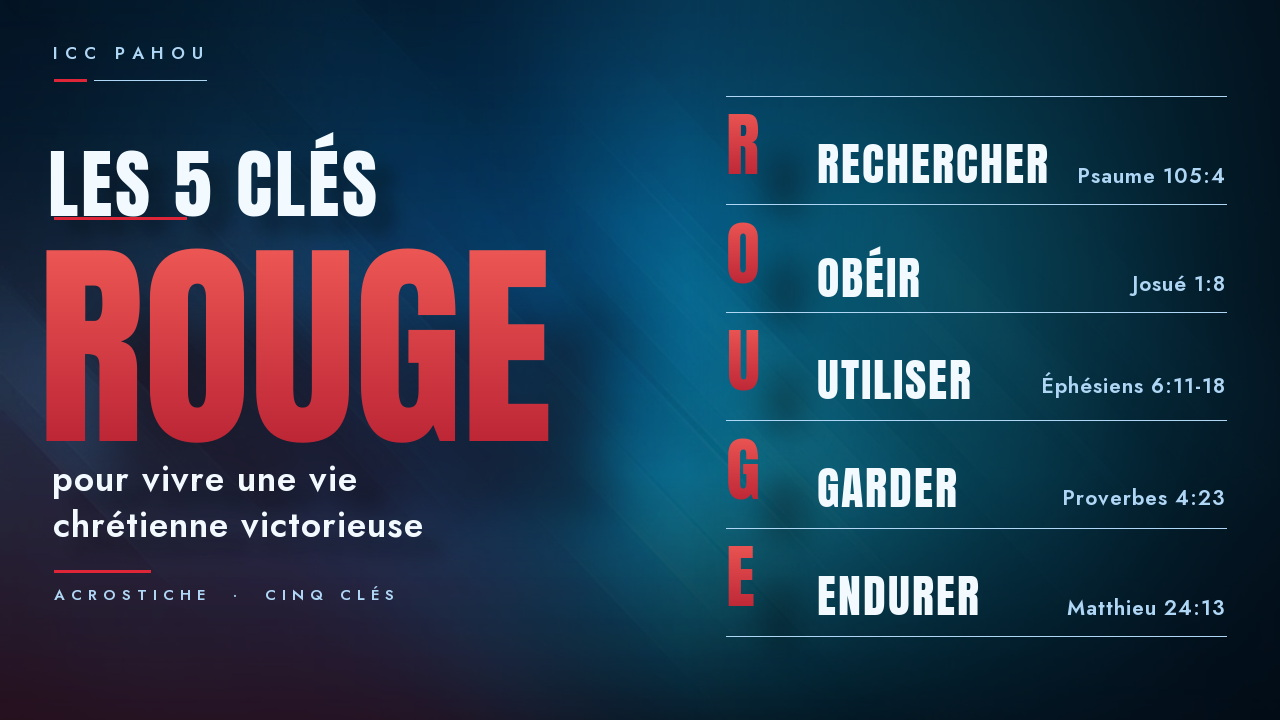
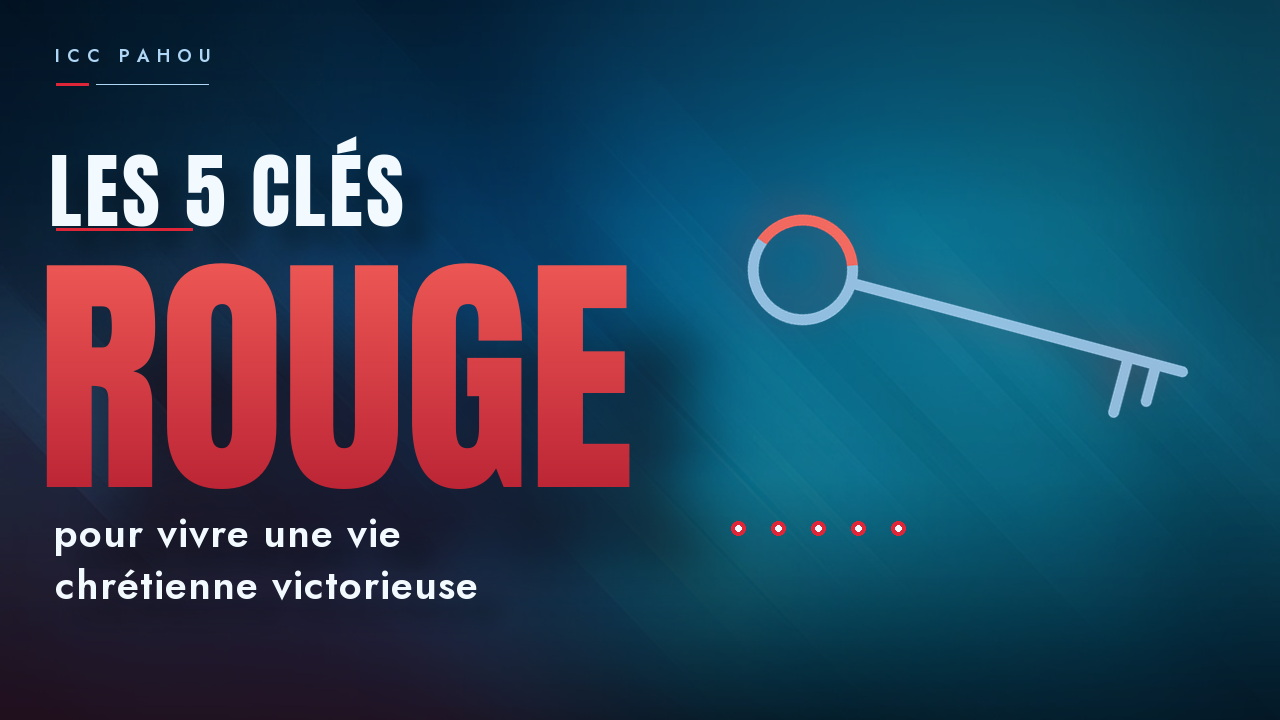
fix(miniature): theme « Les 5 cles : ROUGE » sans les points
- la miniature ne porte que l'intitule du theme : accroche, mot-acrostiche, phrase
- motif de cle filaire + 5 pastilles rouges pour dire le sujet sans liste
- les 5 verbes et leurs references restent sur le visuel 1280x720

diff --git a/scripts/render_rouge_5cles_theme.py b/scripts/render_rouge_5cles_theme.py
@@ -1,0 +1,164 @@
+#!/usr/bin/env python3
+# -*- coding: utf-8 -*-
+"""Miniature YouTube 1280×720 — thème « Les 5 clés… : ROUGE », **sans les points**.
+
+Variante demandée : « c'est juste le thème sans les points ». La miniature ne porte donc que
+l'intitulé du thème, comme la miniature du thème CAP : accroche, mot-acrostiche, phrase du
+thème. Aucune liste, aucun verbe-clé, aucune référence biblique — elles restent sur le visuel
+1280 × 720 du thème.
+
+Le sujet du thème (une clé, cinq clés) est dit par un **motif de clé filaire**, pas par du
+texte : c'est le seul ajout, et il remplace la colonne de droite laissée libre.
+
+    python3 scripts/render_rouge_5cles_theme.py <sortie.jpg> [fond]
+"""
+import math
+import sys
+
+from PIL import Image, ImageDraw, ImageFilter
+
+sys.path.insert(0, "scripts")
+import render_cap_f07_texte as T  # noqa: E402  (bibliothèque partagée du dépôt)
+
+W, H = 1280, 720
+DISPLAY = T.TITRE                  # Anton
+TEXTE = "polices/jost-var.ttf"     # Jost
+FOND = "fonds/f06-bleu-acier-texture.jpg"
+
+# 60 % — bleus mesurés sur f06
+NUIT = (4, 34, 58)
+BLEU = (4, 99, 152)
+CYAN = (10, 176, 217)
+# 30 % — secondaire
+ACIER = (176, 214, 246)
+BLANC = (242, 249, 255)
+# 10 % — accent : le ROUGE demandé
+ROUGE = (222, 38, 56)
+ROUGE_CLAIR = (255, 106, 96)
+ROUGE_FONCE = (168, 16, 40)
+
+
+def fond_bleu(path):
+    bg = T.cover(Image.open(path).convert("RGB"), W, H)
+    bg = bg.filter(ImageFilter.GaussianBlur(1.2))
+    bg = bg.filter(ImageFilter.UnsharpMask(radius=3, percent=70, threshold=2))
+    bg = Image.eval(bg, lambda v: min(255, int(v * 0.86)))
+    base = bg.convert("RGBA")
+    base.alpha_composite(T.vgrad(W, H, [
+        (0.00, (4, 16, 32, 196)),
+        (0.30, (4, 20, 40, 124)),
+        (0.66, (4, 16, 32, 118)),
+        (1.00, (3, 10, 22, 226)),
+    ]))
+    base.alpha_composite(T.radial(W, H, W * 0.90, H * 0.14, W * 0.44, (20, 170, 215), 52, 90))
+    base.alpha_composite(T.radial(W, H, W * 0.16, H * 0.90, W * 0.30, ROUGE, 34, 110))
+    return base
+
+
+def texte(base, s, font, x, y, couleur, tracking=0, ombre=True, droite=None, alpha=255):
+    m = T.text_mask(s, font, tracking)
+    lay = Image.new("RGBA", m.size, tuple(couleur) + (alpha,))
+    lay.putalpha(m)
+    if ombre:
+        sh = T.drop(lay, 10, 95, (3, 5), (2, 8, 14))
+        if droite is None:
+            T.paste_left(base, sh, x + 2, y + 2)
+        else:
+            T.paste_right(base, sh, droite + 2, y + 2)
+    if droite is None:
+        T.paste_left(base, lay, x, y)
+    else:
+        T.paste_right(base, lay, droite, y)
+    return m.width
+
+
+def cle(w, h, ep=12):
+    """Clé filaire de profil : anneau, tige, deux dents — tracés épais à bouts arrondis."""
+    S = 3
+    Wl, Hl = w * S, h * S
+    lay = Image.new("RGBA", (Wl, Hl), (0, 0, 0, 0))
+    d = ImageDraw.Draw(lay)
+    e = ep * S
+    r = h * 0.29 * S                      # rayon EXTÉRIEUR de l'anneau
+    cx, cy = r + e, Hl * 0.46
+    col = ACIER + (205,)
+    # anneau (extérieur + intérieur pour un tracé net)
+    d.ellipse([cx - r, cy - r, cx + r, cy + r], outline=col, width=e)
+    # tige
+    x0 = cx + r - e // 2
+    x1 = Wl - e
+    d.line([(x0, cy), (x1, cy)], fill=col, width=e)
+    d.ellipse([x1 - e // 2, cy - e // 2, x1 + e // 2, cy + e // 2], fill=col)
+    # dents, sous la tige
+    for dx, hh in ((5.6 * e, h * 0.30 * S), (3.0 * e, h * 0.20 * S)):
+        xd = Wl - dx - e // 2
+        d.line([(xd, cy), (xd, cy + hh)], fill=col, width=e)
+        d.ellipse([xd - e // 2, cy + hh - e // 2, xd + e // 2, cy + hh + e // 2], fill=col)
+    # liseré rouge sur le haut de l'anneau : l'accent du thème
+    d.arc([cx - r, cy - r, cx + r, cy + r], start=200, end=340, fill=ROUGE_CLAIR + (240,), width=e)
+    return lay.resize((w, h), Image.LANCZOS)
+
+
+def main(out, fond=FOND):
+    base = fond_bleu(fond)
+    d = ImageDraw.Draw(base, "RGBA")
+
+    # ---------------- marque
+    fm = T.font(TEXTE, 18, "SemiBold")
+    texte(base, "ICC PAHOU", fm, 56, 48, ACIER, tracking=7, ombre=False)
+    d.line([(56, 84), (88, 84)], fill=ROUGE + (245,), width=3)
+    d.line([(96, 84), (208, 84)], fill=ACIER + (95,), width=1)
+
+    # ---------------- accroche
+    yk = 136
+    fk, sk = T.fit_width(DISPLAY, "LES 5 CLÉS", 402, start=82, lo=40)
+    texte(base, "LES 5 CLÉS", fk, 52, yk, BLANC, tracking=3)
+    d.line([(56, yk + int(sk * 1.14)), (56 + 136, yk + int(sk * 1.14))],
+           fill=ROUGE + (238,), width=3)
+
+    # ---------------- le mot-acrostiche, très grand
+    fr, sr = T.fit_width(DISPLAY, "ROUGE", 604, start=300, lo=140)
+    widths = [fr.getlength(c) for c in "ROUGE"]
+    asc, desc = fr.getmetrics()
+    L = Image.new("L", (int(sum(widths)) + 40, asc + desc + 24), 0)
+    dl = ImageDraw.Draw(L)
+    xx = 8
+    for c, cw in zip("ROUGE", widths):
+        dl.text((xx, 10), c, font=fr, fill=255)
+        xx += cw - 1
+    grad = T.fill_gradient(L, ROUGE_CLAIR, ROUGE_FONCE)
+    yR = yk + int(sk * 1.14) + 34
+    T.paste_left(base, T.drop(grad, 28, 155, (6, 11), (24, 0, 6)), 54, yR + 9)
+    T.paste_left(base, grad, 46, yR)
+    hR = grad.getbbox()[3] - grad.getbbox()[1]
+
+    # ---------------- phrase du thème
+    ys = yR + hR + 28
+    fs = T.font(TEXTE, 40, "SemiBold")
+    texte(base, "pour vivre une vie", fs, 56, ys, BLANC, tracking=1)
+    texte(base, "chrétienne victorieuse", fs, 56, ys + 50, BLANC, tracking=1)
+
+    # ---------------- motif : la clé, filaire, à droite (entièrement dans le cadre)
+    kw, kh = 470, 190
+    k = cle(kw, kh, ep=11).rotate(-15, resample=Image.BICUBIC, expand=True)
+    kx = 1216 - k.width
+    ky = 168
+    glow = k.filter(ImageFilter.GaussianBlur(20))
+    rgl = Image.new("RGBA", glow.size, ROUGE + (0,))
+    rgl.putalpha(glow.getchannel("A").point(lambda v: int(v * 0.5)))
+    base.alpha_composite(rgl, (kx - 8, ky - 8))
+    base.alpha_composite(k, (kx, ky))
+
+    # cinq pastilles d'accent sous la clé : le compte des cinq clés, sans un mot
+    yc = ky + k.height + 54
+    for i in range(5):
+        cx = kx + 26 + i * 40
+        d.ellipse([cx - 7, yc - 7, cx + 7, yc + 7], fill=ROUGE + (245,))
+        d.ellipse([cx - 3, yc - 3, cx + 3, yc + 3], fill=BLANC + (200,))
+
+    base.convert("RGB").save(out, quality=94, subsampling=1, optimize=True)
+    print("écrit", out, "· ROUGE", sr, "· accroche", sk)
+
+
+if __name__ == "__main__":
+    main(sys.argv[1], sys.argv[2] if len(sys.argv) > 2 else FOND)

diff --git a/livrables/2026-11-07-miniature-les-5-cles-rouge-1280x720.md b/livrables/2026-11-07-miniature-les-5-cles-rouge-1280x720.md
@@ -3,36 +3,40 @@
 - **Fichier** : [`2026-11-07-miniature-les-5-cles-rouge-1280x720.jpg`](2026-11-07-miniature-les-5-cles-rouge-1280x720.jpg)
 - **Format** : miniature YouTube **1280 × 720** · livrée le 2026-11-07
 - **Demande** : « on va faire la miniature YouTube du thème *Les 5 clés pour vivre une vie
-  chrétienne victorieuse : ROUGE* » — mêmes textes que le visuel déjà livré
-  ([`2026-11-07-visuel-les-5-cles-rouge-1280x720.jpg`](2026-11-07-visuel-les-5-cles-rouge-1280x720.jpg))
-- Script : `scripts/render_rouge_5cles_miniature.py` · fiche : [`themes/les-5-cles-rouge.md`](../themes/les-5-cles-rouge.md)
+  chrétienne victorieuse : ROUGE* » puis « c'est juste le thème sans les points »
+- Script : `scripts/render_rouge_5cles_theme.py` · fiche : [`themes/les-5-cles-rouge.md`](../themes/les-5-cles-rouge.md)
 
 ## Ce qui a été utilisé
 
 | Élément | Choix |
 |---|---|
-| Fond | **FOND 6** → `fonds/f06-bleu-acier-texture.jpg`, assombri (×0,86) + scrim + halo cyan + souffle rouge diffus en bas à gauche |
+| Fond | **FOND 6** → `fonds/f06-bleu-acier-texture.jpg`, assombri (×0,86), scrim vertical, halo cyan, souffle rouge diffus en bas à gauche |
 | Palette | 60 % bleus de f06 · 30 % acier `#B0D6F6` · **10 % ROUGE** `#DE2638` — la couleur demandée, en accent |
-| Typographie | **Anton** (accroche, mot-acrostiche, cinq verbes) + **Jost** (sous-titre, références) — duo du thème, identique au visuel 1280×720 |
-| Textes | « LES 5 CLÉS » · « ROUGE » · « pour vivre une vie chrétienne victorieuse » · les cinq verbes **RECHERCHER · OBÉIR · UTILISER · GARDER · ENDURER** · leurs cinq références |
+| Typographie | **Anton** (accroche, mot-acrostiche) + **Jost** (phrase du thème) — duo du thème |
+| Textes | « LES 5 CLÉS » · « ROUGE » · « pour vivre une vie chrétienne victorieuse » — **rien d'autre** |
 | Marque | `ICC PAHOU` (forme courte réservée aux miniatures 1280×720) |
 
-## Écarts assumés (miniature ≠ visuel de message)
+## La demande « sans les points »
 
-- **Les gloses ne sont pas reprises** (« Continuellement la présence de Dieu. », etc.) : une
-  miniature porte deux niveaux de texte au maximum, sinon elle devient illisible en vignette de
-  téléphone. Les gloses restent sur le visuel 1280×720 du thème, qui est le support de lecture.
-- **Références à droite du verbe, sur la même ligne** : c'est ce qui permet de balayer les cinq
-  clés d'un seul regard, y compris à 320 px de large.
-- **Plaque d'assombrissement derrière la colonne de droite** : la référence biblique tombait sur le
-  halo cyan du fond et n'atteignait plus le contraste utile ; la plaque garantit le rapport de
-  contraste partout, sans se voir.
-- **Aucune date, aucun orateur** : la demande n'en donne pas pour ce thème.
+- **Les cinq verbes-clés, leurs gloses et leurs références ne figurent pas sur la miniature.**
+  Ils restent sur le visuel 1280 × 720 du thème
+  ([`2026-11-07-visuel-les-5-cles-rouge-1280x720.jpg`](2026-11-07-visuel-les-5-cles-rouge-1280x720.jpg)).
+- Le sujet du thème (« les clés ») est dit **une seule fois, sans un mot de plus** : une **clé
+  filaire** à droite, acier, anneau liseré de rouge, et **cinq pastilles rouges** dessous — le
+  compte des cinq clés. C'est un motif, pas une liste : il ne rallonge pas la lecture.
+
+## Décisions de composition
+
+- **Le mot ROUGE occupe la moitié gauche** (Anton 258 px) : c'est l'accroche de la vignette, il
+  doit se lire à 320 px de large.
+- **Rien en bas à droite** : la zone du badge de durée et du bouton de lecture YouTube reste
+  calme — l'interface n'est jamais imitée, mais on lui laisse la place.
+- **Aucune date, aucun orateur** : la demande n'en donne pas.
 
 ## En attente
 
-Rien de bloquant. Si la date et le prédicateur arrivent, ils se posent en bas à gauche, sous le
-sous-titre — la colonne de gauche a la place.
+Rien de bloquant. Si la date et le prédicateur arrivent, ils se posent en bas à gauche, sous la
+phrase du thème.
 
-À vérifier : les cinq références bibliques (Psaume 105:4 · Josué 1:8 · Éphésiens 6:11-18 ·
-Proverbes 4:23 · Matthieu 24:13), recopiées telles quelles.
+À vérifier : l'orthographe du titre (« LES 5 CLÉS », « ROUGE ») et la phrase du thème, recopiés
+tels quels depuis la demande.

diff --git a/themes/les-5-cles-rouge.md b/themes/les-5-cles-rouge.md
@@ -21,8 +21,9 @@
 - **À éviter** : peindre le fond en rouge (le bleu doit rester majoritaire), empiler les effets,
   séparer la lettre de son verbe, oublier une référence biblique.
 - **Formats déjà servis** : visuel 1280×720 (2026-11-07) + **miniature YouTube 1280×720**
-  (`scripts/render_rouge_5cles_miniature.py`) — deux niveaux de texte seulement : accroche +
-  mot-acrostiche à gauche, les cinq verbes et leurs références à droite.
+  (`scripts/render_rouge_5cles_theme.py`) — **le thème seul, sans les points** : accroche,
+  mot-acrostiche, phrase du thème ; une clé filaire et cinq pastilles rouges disent le sujet
+  sans un mot de plus. Les cinq verbes et leurs références restent sur le visuel 1280×720.
 
 ## Réglages de référence (1280×720)
 
